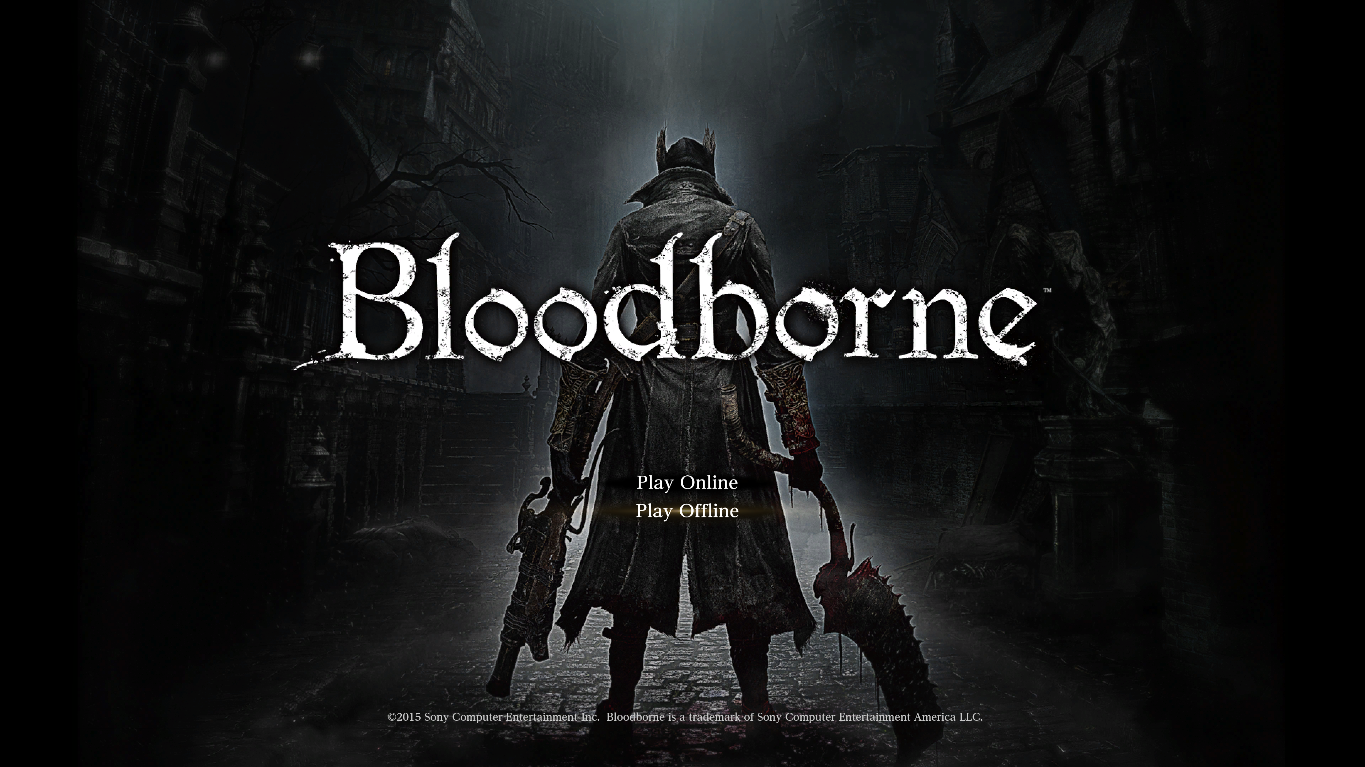
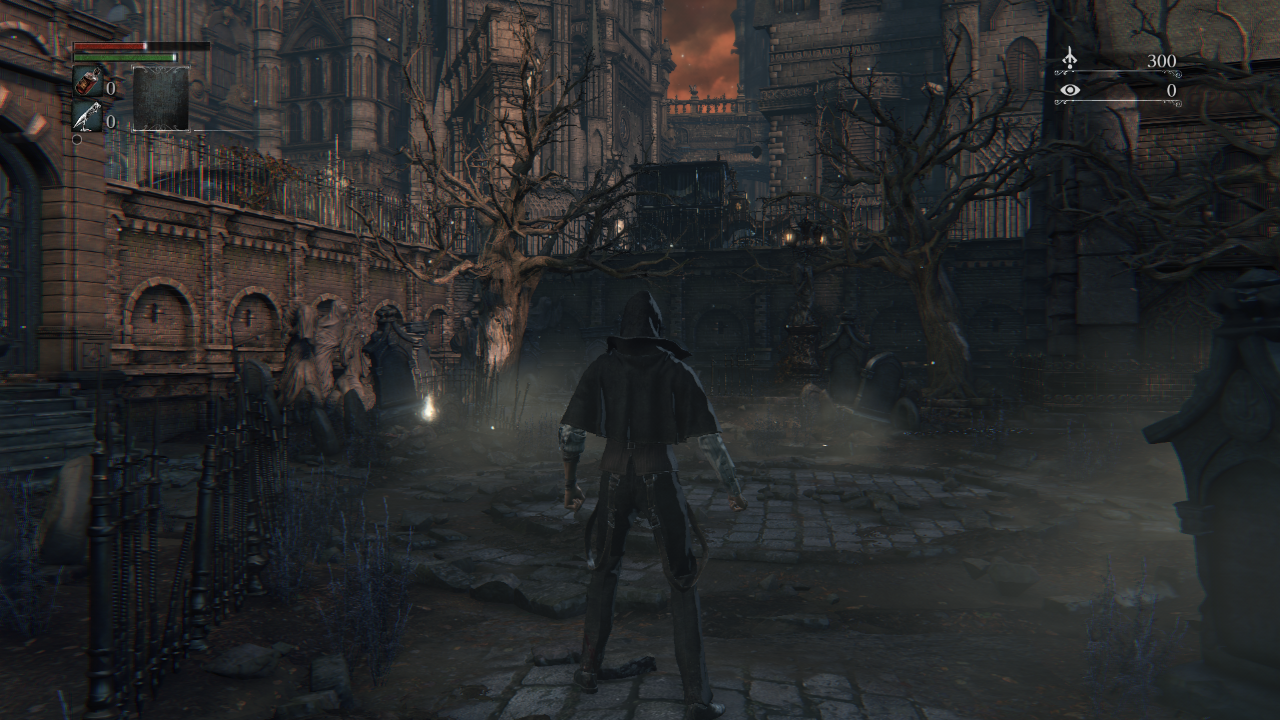
Some new README images for 0.11.0 (#3615)
* New Bloodborne image for README

* Replace P4G with Driveclub

So Atlus doesn't go ham on us just like RPCS3.

* Update README.md

I hope I got the Yakuza game correct

* Downscale Project DIVA image to 720p

So the table scale isn't weird

* Whoops

* Update README.md

* Yakuza image is actually 1280x720

Should fix the misaligning

diff --git a/README.md b/README.md
@@ -24,13 +24,13 @@ SPDX-License-Identifier: GPL-2.0-or-later
         <img src="https://img.shields.io/github/stars/shadps4-emu/shadPS4" width="120">
 </h1>
 
-<p align="center">
-  <a href="https://shadps4.net/">
-  <img src="https://github.com/shadps4-emu/shadPS4/blob/main/documents/Screenshots/1.png" width="400">
-  <img src="https://github.com/shadps4-emu/shadPS4/blob/main/documents/Screenshots/2.png" width="400">
-  <img src="https://github.com/shadps4-emu/shadPS4/blob/main/documents/Screenshots/3.png" width="400">
-  <img src="https://github.com/shadps4-emu/shadPS4/blob/main/documents/Screenshots/4.png" width="400">
-</p>
+|               Bloodborne by From Software                   |                     Hatsune Miku Project DIVA Future Tone by SEGA                         |
+| :-----------------------------------------------------------: | :--------------------------------------------------------------------------------------------: |
+| ![Bloodborne screenshot](./documents/Screenshots/1.png) | ![Project DIVA screenshot](./documents/Screenshots/2.png) |
+
+|                  Yakuza 0 by SEGA                     |                 DRIVECLUB™ by Evolution Studios                    |
+| :------------------------------------------------------------------------: | :------------------------------------------------------------------: |
+| ![Yakuza screenshot](./documents/Screenshots/3.png) | ![DRIVECLUB screenshot](./documents/Screenshots/4.png) |
 
 # General information
 
